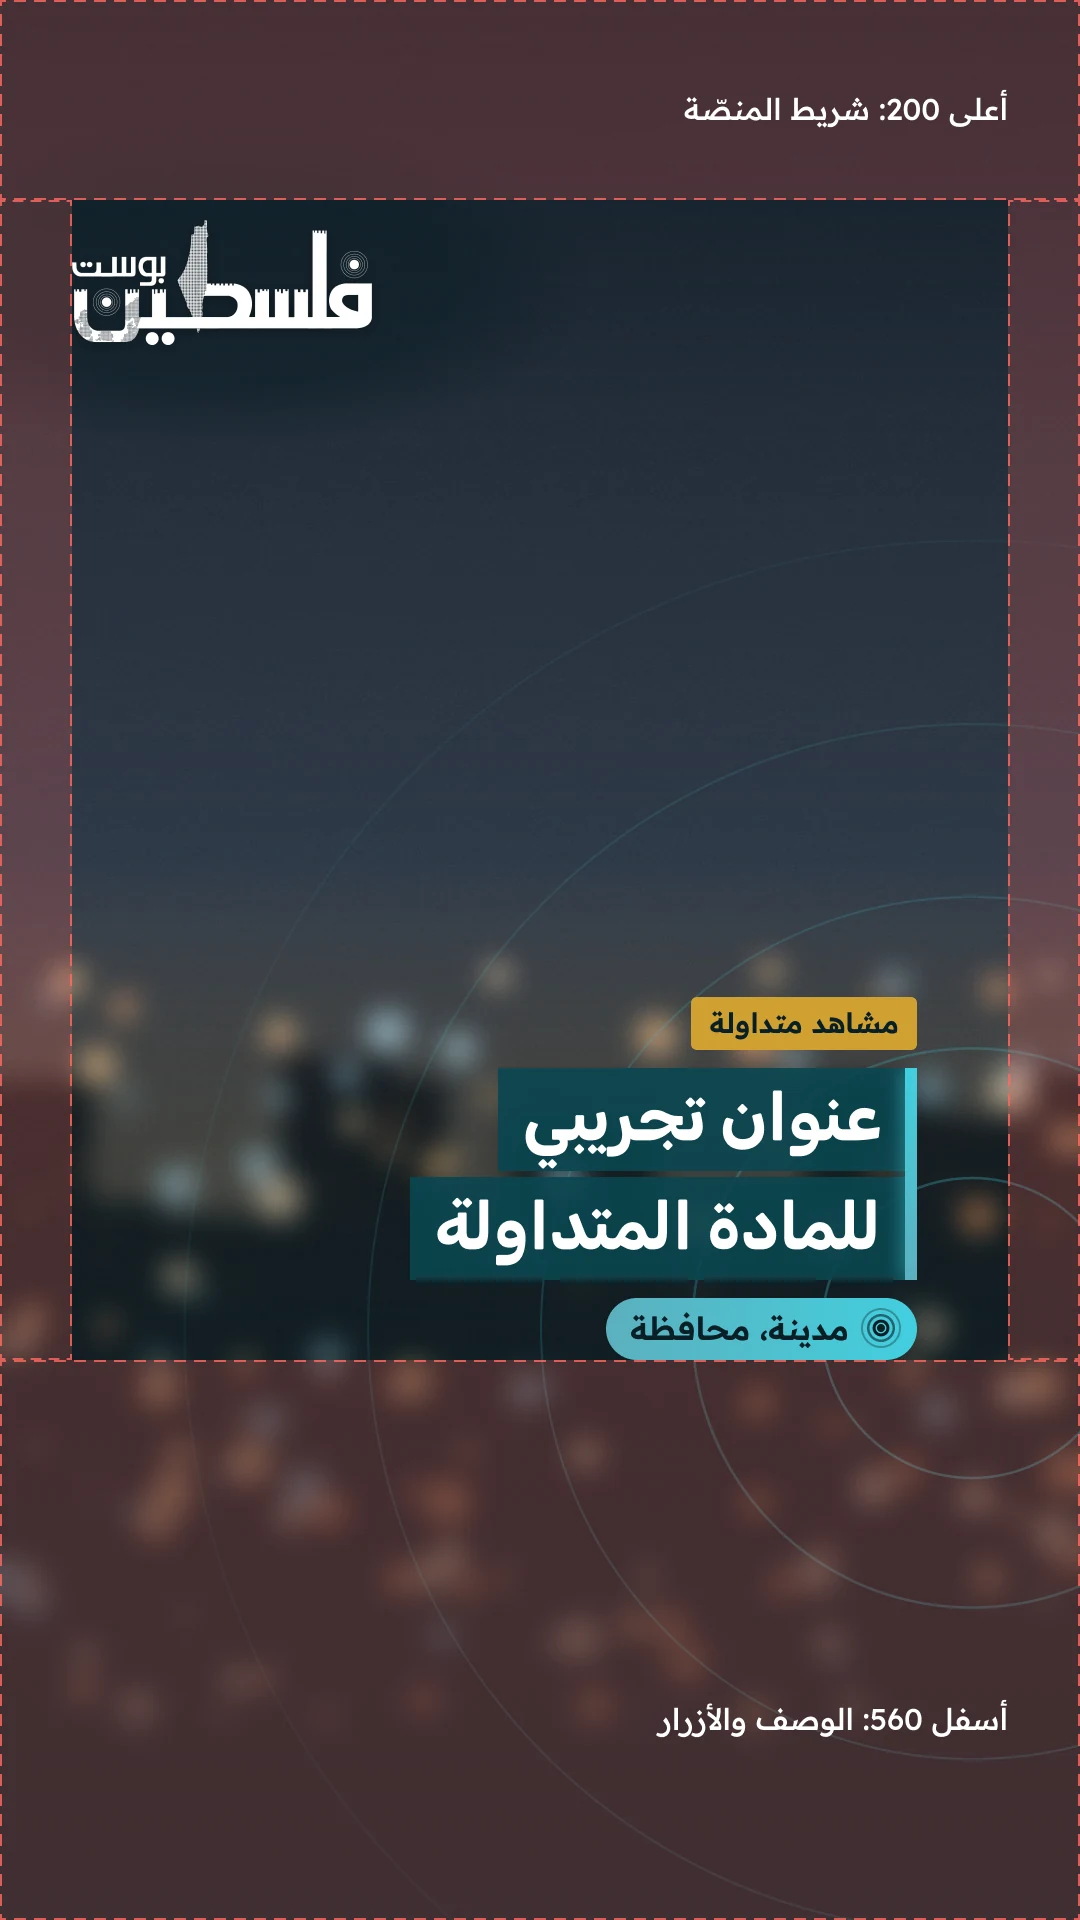
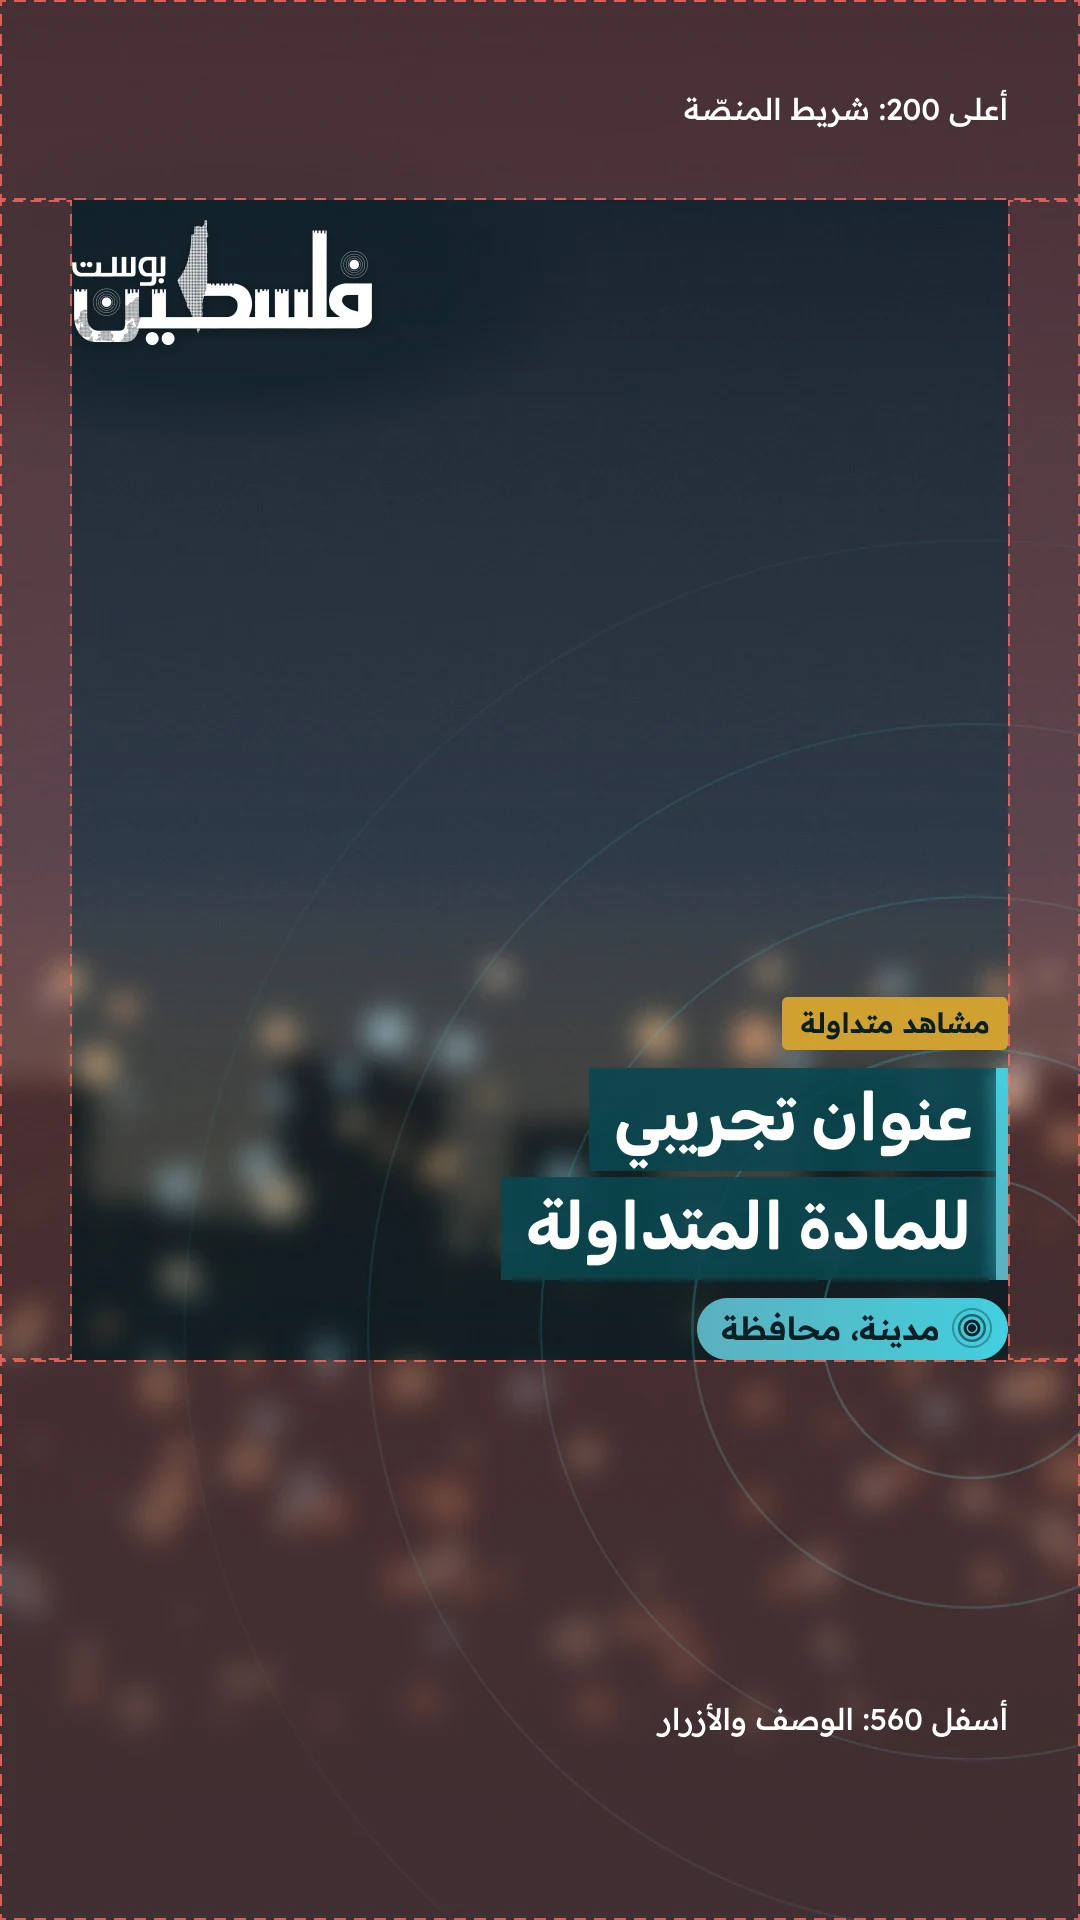
design: second #466 review round on the circulated-video template
- Pin the lower third to the right margin in VT-01..06 and re-export
  (right edge 1008 / 1824 / 1016, the spec margins).
- Measurement: record the exact render commands and the browser build;
  note that the H.264 preview pixel format and size follow the browser
  build (reproduced byte for byte here).
- Spec: the 22-character counter is a proposal for ADR 0091; line
  limits as measured ranges in Chrome.
- Root.tsx comment says 39 characters; README notes the first render
  downloads Chrome Headless Shell; VT-07 footnote keeps the waw apart
  from the English easing terms.

Claude-Session: https://claude.ai/code/session_01HY7py4Kwox1KypVxZuFGKP

Changed region(s): [[0.3667, 0.5, 0.9472, 0.7188]]

diff --git a/docs/design/redesign-2026-11/motion/circulated-template/src/Root.tsx b/docs/design/redesign-2026-11/motion/circulated-template/src/Root.tsx
@@ -87,7 +87,7 @@ export const Root: React.FC = () => (
       />
     </Folder>
     <Folder name="Checks">
-      {/* سطر طويل (36 حرفًا): يصغر حتى 80% ثم يلتفّ داخل لوحه، ولا يُقصّ عند الحافة */}
+      {/* سطر طويل (39 حرفًا): يصغر حتى 80% ثم يلتفّ داخل لوحه، ولا يُقصّ عند الحافة */}
       <Composition
         id="Check-LongLine"
         component={CirculatedTemplate}

diff --git a/docs/design/specs/video-template.md b/docs/design/specs/video-template.md
@@ -47,7 +47,7 @@
 
 ### طول السطر
 
-الحدّ التحريري 22 حرفًا للسطر، وعليه يعمل عدّاد الواجهة (ADR 0091). وما زاد لا يُقصّ عند الحافة:
+**مقترح لـ ADR 0091:** حدّ تحريري 22 حرفًا للسطر، يعمل عليه عدّاد الواجهة. والقالب نفسه لا يقصّ ما زاد عند الحافة:
 
 1. يبقى بالحجم الكامل ما دام يسع العرض الأقصى للسطر (عرض الإطار ناقص الهامشين والعمود وحشوة اللوح، وفي الأفقي 55% من العرض).
 2. ثم يصغر حتى 80% من حجمه.
@@ -55,11 +55,11 @@
 
 | الإطار | بالحجم الكامل | حتى 80% | بعدها |
 |---|---|---|---|
-| عمودي | نحو 30 حرفًا | نحو 37 | يلتفّ |
-| أفقي | نحو 36 | نحو 44 | يلتفّ |
-| مربّع | نحو 36 | نحو 44 | يلتفّ |
+| عمودي | 26–30 حرفًا | 35–37 | يلتفّ |
+| أفقي | 32–36 | 40–44 | يلتفّ |
+| مربّع | 31–36 | 39–44 | يلتفّ |
 
-الأعداد مقيسة بخط Rubik Bold على عيّنة عربية، وتختلف قليلًا بعرض الحروف. التركيبة `Check-LongLine` في مشروع التحريك تثبت السلوك بسطر من 39 حرفًا.
+الأعداد مقيسة في Chrome (`fitText` في القالب نفسه)، والمدى بين عيّنتين عربيتين مختلفتين في عرض الحروف، والحدّ الأدنى هو الآمن. التركيبة `Check-LongLine` في مشروع التحريك تثبت السلوك بسطر من 39 حرفًا.
 
 ## التحريك
 

diff --git a/docs/design/redesign-2026-11/motion/circulated-template/README.md b/docs/design/redesign-2026-11/motion/circulated-template/README.md
@@ -4,6 +4,8 @@
 
 ## التشغيل
 
+أول تصدير ينزّل Chrome Headless Shell من الشبكة، إلا إن مُرِّر متصفح موجود بـ `--browser-executable`. وبناء المتصفح يغيّر ناتج المعاينة بـ H.264: صيغة البكسل وحجم الملف (التفصيل في ملف القياس).
+
 ```bash
 cd docs/design/redesign-2026-11/motion/circulated-template
 npm ci
